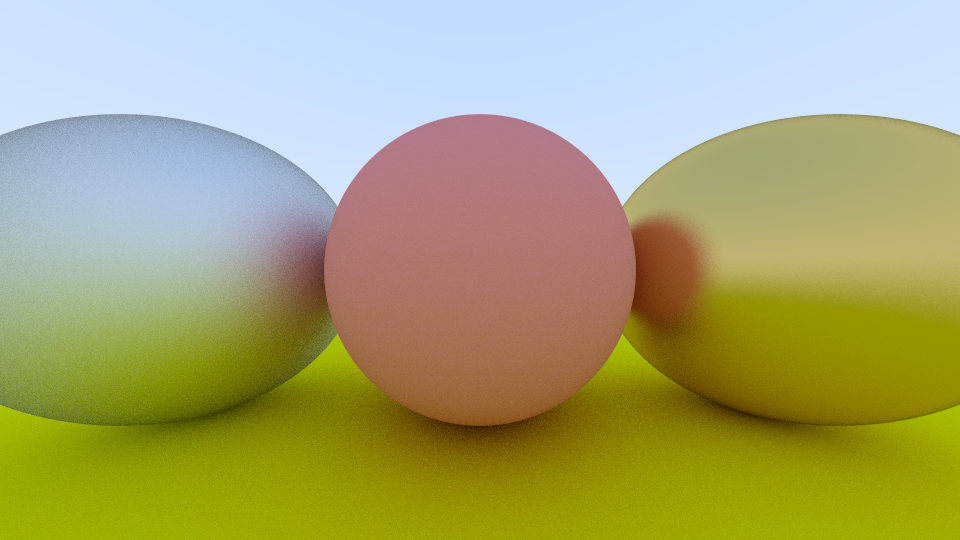
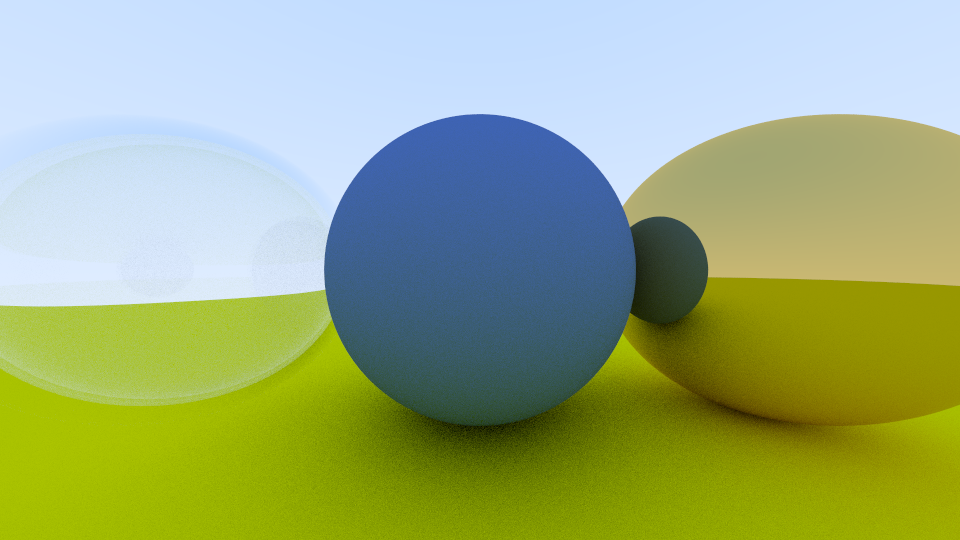
material: add dielectric texture
Let's add textures to mimic dielectric (such as glass) surfaces.

diff --git a/src/dielectric.cpp b/src/dielectric.cpp
@@ -1,0 +1,36 @@
+#include "include/material.hpp"
+
+bool dielectric::scatter(const ray& r,
+			 const hit_record &rec,
+			 vec3 &attenuation,
+			 ray &scattered) const {
+	float cosine;
+	float ni_over_nt;
+	float reflect_prob;
+	vec3 refracted;
+	vec3 outward_normal;
+
+	vec3 reflected = reflect(r.direction(), rec.normal);
+	attenuation = vec3(1.0f, 1.0f, 1.0f);
+
+	if (vec3::dot(r.direction(), rec.normal) > 0.0f) {
+		outward_normal = -rec.normal;
+		ni_over_nt = ref_idx;
+		cosine = ref_idx * vec3::dot(r.direction(), rec.normal)
+			 / r.direction().length();
+	} else {
+		outward_normal = rec.normal;
+		ni_over_nt = 1.0f / ref_idx;
+		cosine = -vec3::dot(r.direction(), rec.normal)
+			 / r.direction().length();
+	}
+	if (refract(r.direction(), outward_normal, ni_over_nt, refracted))
+		reflect_prob = schlick(cosine, ref_idx);
+	else
+		reflect_prob = 1.0f;
+	if (random_double() < reflect_prob)
+		scattered = ray(rec.p, reflected);
+	else
+		scattered = ray(rec.p, refracted);
+	return true;
+}

diff --git a/src/tracer.cpp b/src/tracer.cpp
@@ -15,16 +15,18 @@ int main(void) {
 	vec3 horizontal(32.0f, 0.0f, 0.0f);
 	vec3 lower_left_corner(-16.0f, -9.0f, -9.0f);
 
-	hitable *list[4];
+	hitable *list[5];
 	list[0] = new sphere(vec3(0.0f, 0.0f, -1.0f),
-			     0.5f, new lambertian(vec3(0.8f, 0.3f, 0.3f)));
+			     0.5f, new lambertian(vec3(0.1f, 0.2f, 0.5f)));
 	list[1] = new sphere(vec3(0.0f, -100.5f, -1.0f),
 			     100.0f, new lambertian(vec3(0.8f, 0.8f, 0.0f)));
 	list[2] = new sphere(vec3(1.0f, 0.0f, -1.0f),
-			     0.5f, new metal(vec3(0.8f, 0.6f, 0.2f), 0.3f));
+			     0.5f, new metal(vec3(0.8f, 0.6f, 0.2f), 0.0f));
 	list[3] = new sphere(vec3(-1.0f, 0.0f, -1.0f),
-			     0.5f, new metal(vec3(0.8f, 0.8f, 0.8f), 1.0f));
-	hitable *world = new hitable_list(list, 4);
+			     0.5f, new dielectric(1.5));
+	list[4] = new sphere(vec3(-1.0f, 0.0f, -1.0f),
+			     -0.45f, new dielectric(1.5));
+	hitable *world = new hitable_list(list, 5);
 	camera cam;
 
 	std::cout << "P3\n" << nx << " " << ny << "\n255\n";

diff --git a/src/include/util.hpp b/src/include/util.hpp
@@ -28,6 +28,25 @@ vec3 reflect(const vec3 &v, const vec3 &n) {
 	return v - 2 * vec3::dot(v, n) * n;
 }
 
+bool refract(const vec3 &v, const vec3 &n, float ni_over_nt, vec3 &refracted) {
+	vec3 uv = vec3::unit_vector(v);
+	float dt = vec3::dot(uv, n);
+	float D = 1.0f - ni_over_nt * ni_over_nt * (1 - dt * dt);
+
+	if (D > 0.0f) {
+		refracted = ni_over_nt * (uv - n * dt) - n * sqrt(D);
+		return true;
+	}
+	return false;
+}
+
+float schlick(float cosine, float ref_idx) {
+	float r0 = (1.0f - ref_idx) / (1.0f + ref_idx);
+	r0 *= r0;
+
+	return r0 + (1.0f - r0) * pow(1.0f - cosine, 5);
+}
+
 vec3 color(const ray& r, hitable *world, int depth) {
 	hit_record rec;
 	if (world->hit(r, 0.001f, MAXFLOAT, rec)) {

diff --git a/src/include/material.hpp b/src/include/material.hpp
@@ -5,6 +5,9 @@
 
 extern vec3 random_in_unit_sphere();
 extern vec3 reflect(const vec3&, const vec3&);
+extern bool refract(const vec3&, const vec3&, float, vec3&);
+extern float schlick(float, float);
+extern double random_double();
 
 class material {
 public:
@@ -29,6 +32,14 @@ public:
 			     vec3 &attenuation, ray &scattered) const;
 	vec3 albedo;
 	float fuzz;
+};
+
+class dielectric : public material {
+public:
+	dielectric(float ri) : ref_idx(ri) {}
+	virtual bool scatter(const ray &r, const hit_record &rec,
+			     vec3 &attenuation, ray &scattered) const;
+	float ref_idx;
 };
 
 #endif
